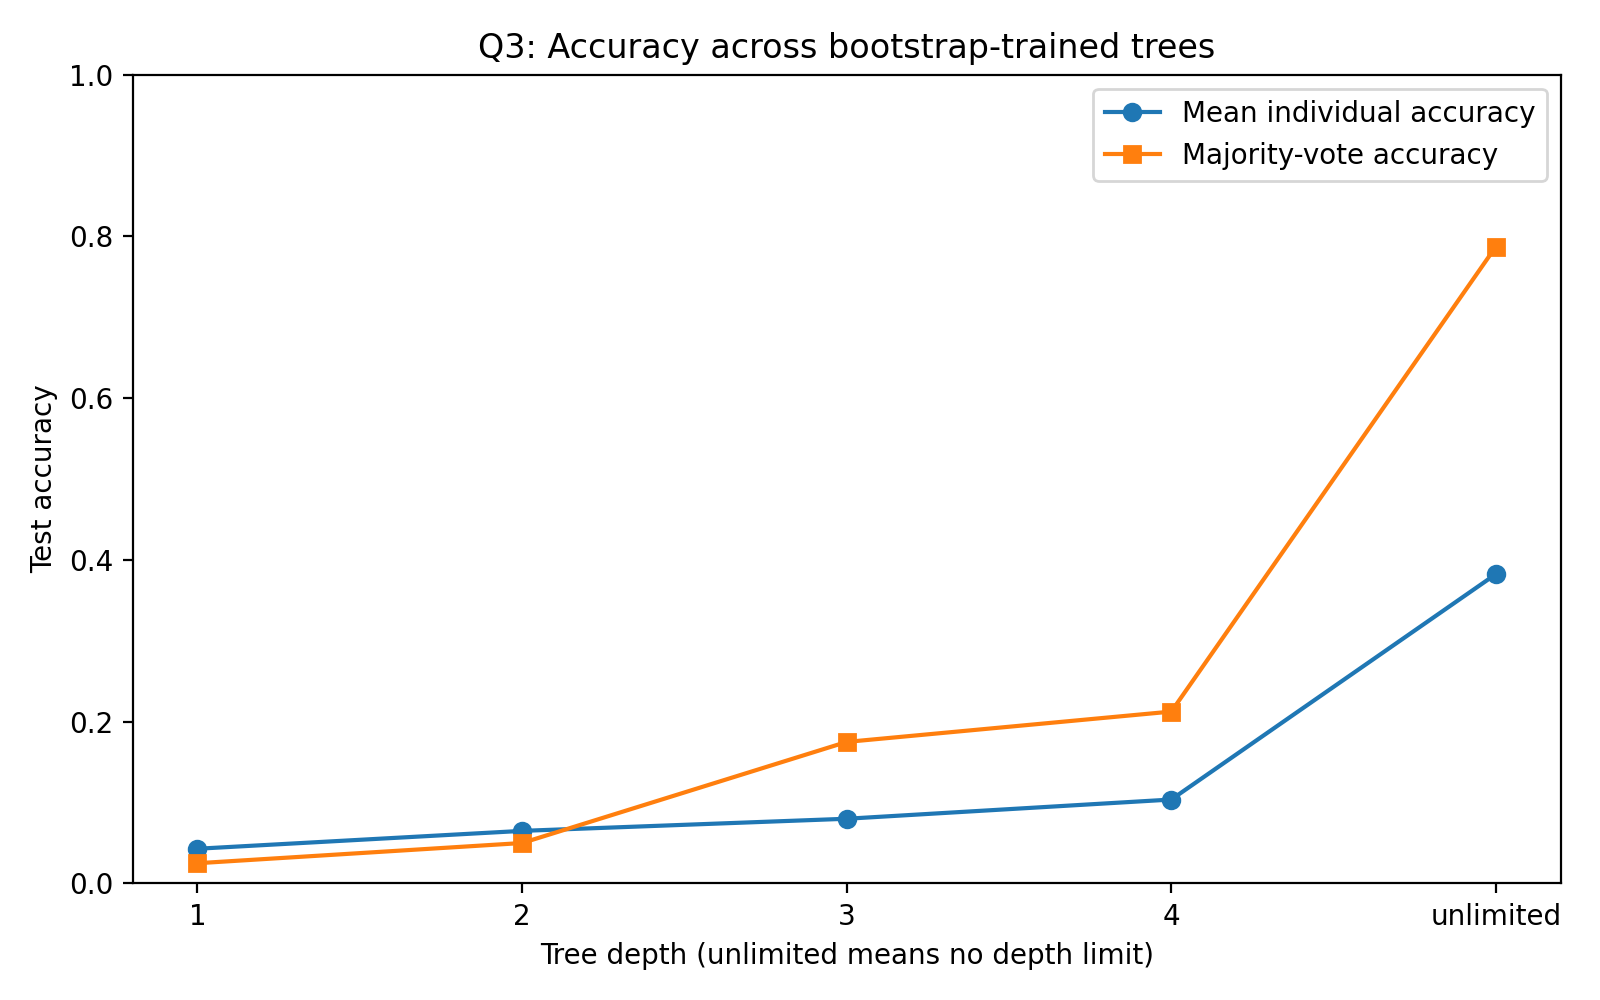
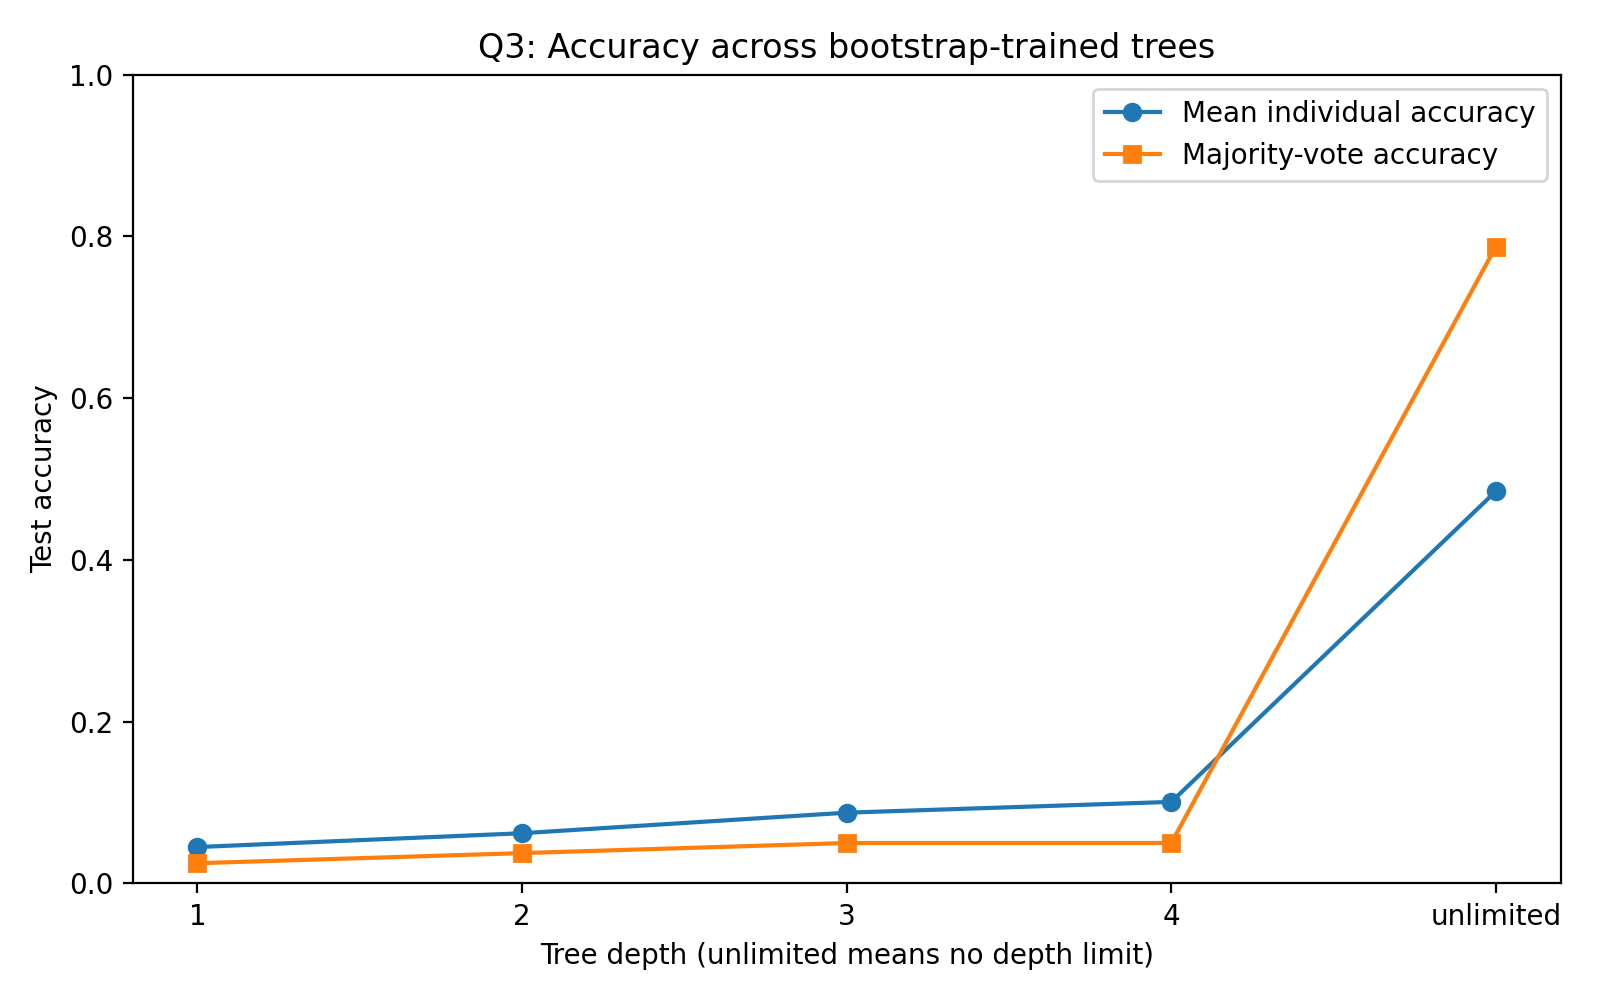
Correct Q3 within-identity bootstrap analysis

diff --git a/src/q3_bias_variance.py b/src/q3_bias_variance.py
@@ -15,60 +15,111 @@ DEPTHS = [1, 2, 3, 4, None]
 def main():
     LOGS_DIR.mkdir(exist_ok=True)
 
-    X_train, y_train, X_val, y_val, X_test, y_test, *_ = (
-        load_dataset_and_split()
-    )
+    (
+        X_train,
+        y_train,
+        X_val,
+        y_val,
+        X_test,
+        y_test,
+        *_,
+    ) = load_dataset_and_split()
 
     rng = np.random.default_rng(SEED)
     classes = np.unique(y_train)
+
+    # Store training indices separately for each identity.
+    indices_by_identity = {
+        identity: np.where(y_train == identity)[0]
+        for identity in classes
+    }
+
+    # Confirm that every identity has six training examples.
+    for identity, indices in indices_by_identity.items():
+        if len(indices) != 6:
+            raise ValueError(
+                f"Identity {identity} has {len(indices)} training "
+                "examples; expected 6."
+            )
+
     results = []
 
     for depth in DEPTHS:
         # Each row stores predictions from one bootstrap-trained model.
         predictions = np.zeros(
-            (N_BOOTSTRAPS, len(y_test)), dtype=y_test.dtype
+            (N_BOOTSTRAPS, len(y_test)),
+            dtype=y_test.dtype,
         )
+
         bootstrap_accuracies = []
 
         for b in range(N_BOOTSTRAPS):
-            bootstrap_idx = rng.integers(
-                0, len(X_train), size=len(X_train)
-            )
+            # Within-identity bootstrap:
+            # sample six training examples with replacement
+            # separately for every identity.
+            bootstrap_idx = np.concatenate([
+                rng.choice(
+                    indices_by_identity[identity],
+                    size=len(indices_by_identity[identity]),
+                    replace=True,
+                )
+                for identity in classes
+            ])
 
             model = DecisionTreeClassifier(
                 max_depth=depth,
                 random_state=SEED + b,
             )
-            model.fit(X_train[bootstrap_idx], y_train[bootstrap_idx])
+
+            model.fit(
+                X_train[bootstrap_idx],
+                y_train[bootstrap_idx],
+            )
 
             predictions[b] = model.predict(X_test)
+
             bootstrap_accuracies.append(
                 accuracy_score(y_test, predictions[b])
             )
 
-        # Per-example probability that a bootstrap model predicts each class.
+        # Estimate each class's prediction probability for each test image.
         class_probabilities = np.zeros(
-            (len(y_test), len(classes)), dtype=float
+            (len(y_test), len(classes)),
+            dtype=float,
         )
+
         for class_index, class_label in enumerate(classes):
             class_probabilities[:, class_index] = np.mean(
-                predictions == class_label, axis=0
+                predictions == class_label,
+                axis=0,
             )
 
-        # Multiclass variance: average 1 - sum_c p(c|x)^2.
+        # Multiclass prediction variance:
+        # average over test examples of 1 - sum_c p(c|x)^2.
         variance = np.mean(
             1.0 - np.sum(class_probabilities**2, axis=1)
         )
 
-        # Bias proxy: error of the aggregate majority-vote prediction.
+        # Aggregate majority-vote prediction.
         mean_class_prediction = classes[
             np.argmax(class_probabilities, axis=1)
         ]
-        aggregate_error = 1.0 - accuracy_score(y_test, mean_class_prediction)
 
-        results.append({
-            "max_depth": depth if depth is not None else "unlimited",
+        majority_vote_accuracy = accuracy_score(
+            y_test,
+            mean_class_prediction,
+        )
+
+        # This is an aggregate error proxy, not a formal bias estimate.
+        aggregate_error = 1.0 - majority_vote_accuracy
+
+        result = {
+            "max_depth": (
+                depth if depth is not None else "unlimited"
+            ),
             "n_bootstraps": N_BOOTSTRAPS,
+            "bootstrap_method": "within_identity",
+            "samples_per_identity": 6,
             "mean_individual_test_accuracy": float(
                 np.mean(bootstrap_accuracies)
             ),
@@ -76,23 +127,30 @@ def main():
                 np.std(bootstrap_accuracies)
             ),
             "aggregate_majority_vote_accuracy": float(
-                accuracy_score(y_test, mean_class_prediction)
+                majority_vote_accuracy
             ),
             "multiclass_variance": float(variance),
             "aggregate_error_bias_proxy": float(aggregate_error),
-        })
+        }
 
-        print(results[-1])
+        results.append(result)
+        print(result)
 
     output_path = LOGS_DIR / "q3_bias_variance.json"
-    with output_path.open("w") as f:
-        json.dump({
-            "seed": SEED,
-            "n_bootstraps": N_BOOTSTRAPS,
-            "depths": results,
-        }, f, indent=2)
 
-    print("Results saved to:", output_path)
+    with output_path.open("w") as f:
+        json.dump(
+            {
+                "seed": SEED,
+                "n_bootstraps": N_BOOTSTRAPS,
+                "bootstrap_method": "within_identity",
+                "depths": results,
+            },
+            f,
+            indent=2,
+        )
+
+    print("\nResults saved to:", output_path)
 
 
 if __name__ == "__main__":
